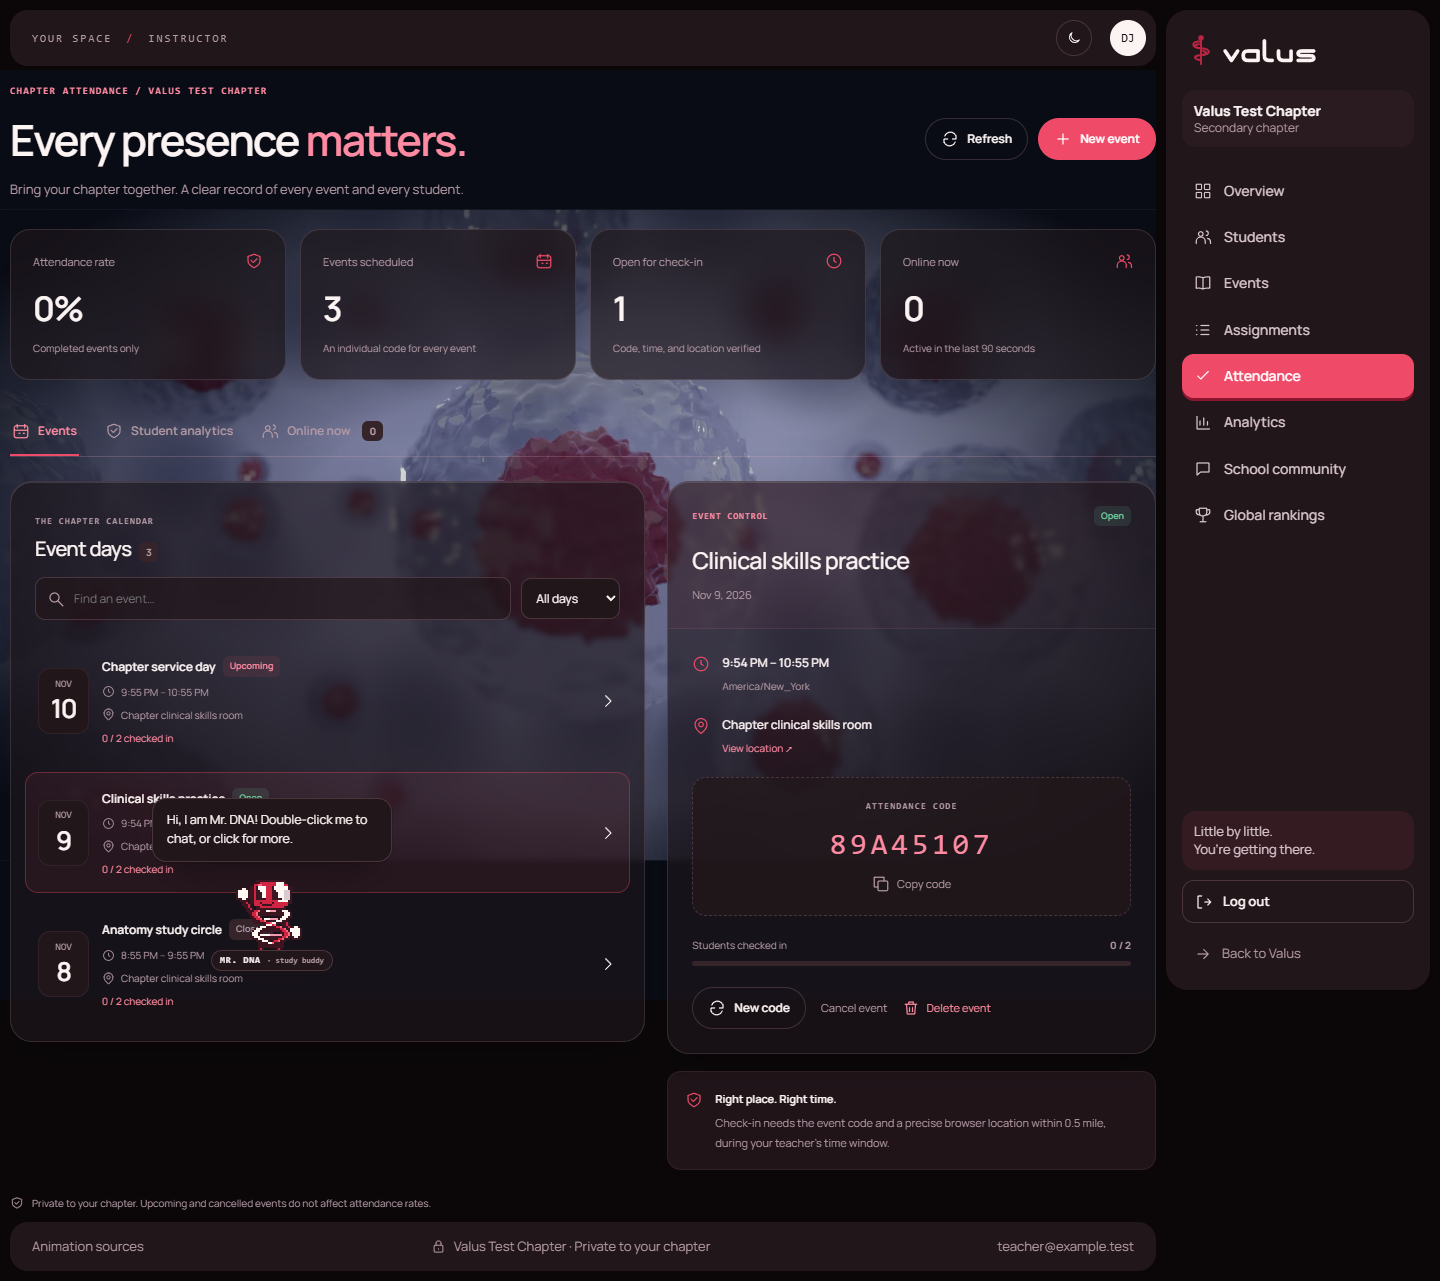
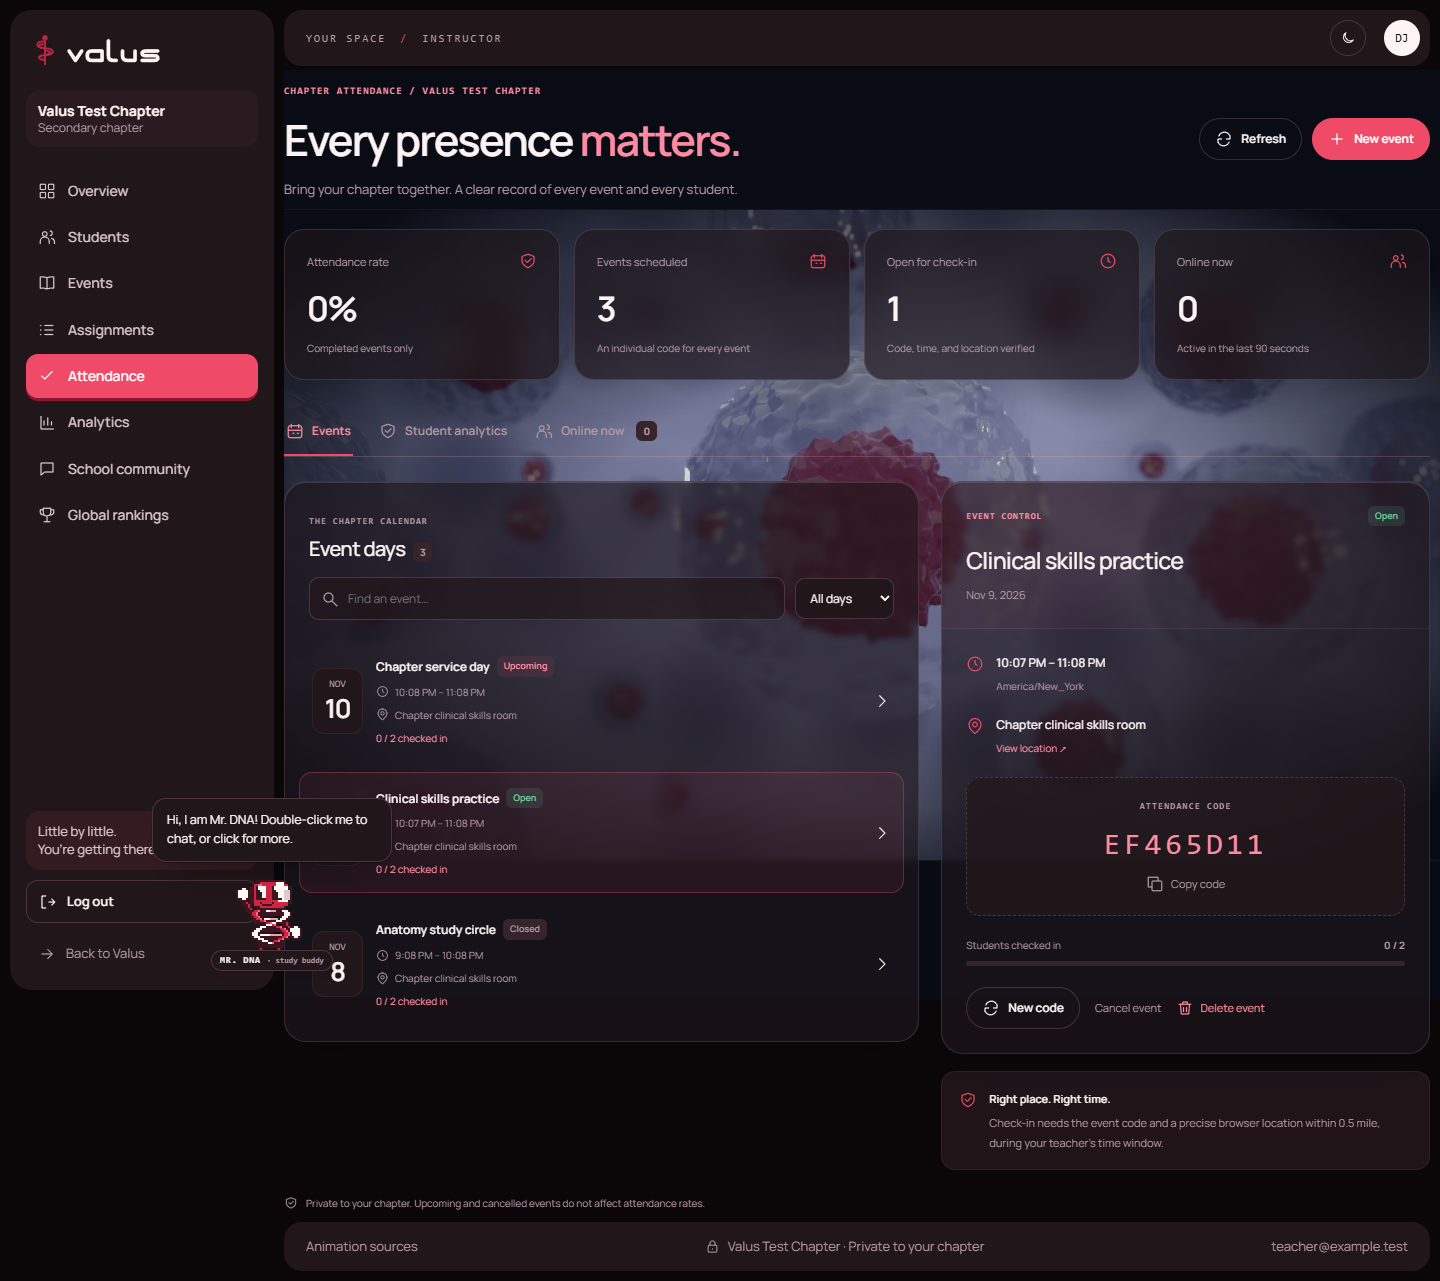
Fixed valus formatting

diff --git a/dist/attendance.css b/dist/attendance.css
@@ -902,24 +902,6 @@
   outline: 2px solid var(--red);
   outline-offset: 3px;
 }
-/* Dashboard navigation stays with all workspace tabs on the requested right side. */
-@media (min-width: 861px) {
-  .workspace {
-    grid-template-columns: minmax(0, 1fr) 264px;
-  }
-  .workspace > .sidebar {
-    grid-column: 2;
-    grid-row: 1;
-  }
-  .workspace > .workspace-body {
-    grid-column: 1;
-    grid-row: 1;
-  }
-  .workspace .medical-backdrop {
-    left: 0;
-    right: 284px;
-  }
-}
 @media (max-width: 1150px) {
   .va-heading {
     align-items: flex-start;
@@ -936,15 +918,6 @@
   }
 }
 @media (max-width: 860px) {
-  .workspace > .sidebar {
-    left: auto;
-    right: 10px;
-    transform: translateX(calc(100% + 20px));
-    z-index: 45;
-  }
-  .workspace > .sidebar.open {
-    transform: none;
-  }
   .va-layout {
     grid-template-columns: minmax(0, 1.2fr) minmax(0, 1fr);
   }

diff --git a/README.md b/README.md
@@ -268,7 +268,7 @@ The app's `#/` routes are invisible to Google, so `npm run seo` (`scripts/build-
 
 ## Chapter attendance
 
-Attendance is available to students and teachers at `#/attendance` through the dashboard navigation on the right. It is not added to the public top navigation. The feature uses Valus's existing colors, typography, frosted panels, and medical backgrounds. Mobile users open the dashboard menu to find Attendance.
+Attendance is available to students and teachers at `#/attendance` through the original dashboard navigation on the left. It is not added to the public top navigation. The feature uses Valus's existing colors, typography, frosted panels, and medical backgrounds. Mobile users open the dashboard menu to find Attendance.
 
 Teachers create dated events with a name, location, and opening/closing time (up to 24 hours, displayed in the teacher's browser time zone). Each event gets an independent eight-character attendance code and a snapshot of the current chapter student roster. Teachers can copy/rotate codes, cancel an event, permanently delete an event with confirmation, view chapter members online, review per-student and per-event attendance, and export roster attendance as CSV. Deleted events and their records disappear from schedules and analytics. Cancelled and upcoming events do not affect attendance rates.
 

diff --git a/BACKEND.md b/BACKEND.md
@@ -153,7 +153,7 @@ together using the existing Vercel workflow. Schema creation is automatic.
 
 ## Chapter attendance
 
-Attendance is available to students and teachers at `#/attendance` through the dashboard navigation on the right. It is not added to the public top navigation. The feature uses Valus's existing colors, typography, frosted panels, and medical backgrounds. Mobile users open the dashboard menu to find Attendance.
+Attendance is available to students and teachers at `#/attendance` through the original dashboard navigation on the left. It is not added to the public top navigation. The feature uses Valus's existing colors, typography, frosted panels, and medical backgrounds. Mobile users open the dashboard menu to find Attendance.
 
 Teachers create dated events with a name, location, and opening/closing time (up to 24 hours, displayed in the teacher's browser time zone). Each event gets an independent eight-character attendance code and a snapshot of the current chapter student roster. Teachers can copy/rotate codes, cancel an event, permanently delete an event with confirmation, view chapter members online, review per-student and per-event attendance, and export roster attendance as CSV. Deleted events and their records disappear from schedules and analytics. Cancelled and upcoming events do not affect attendance rates.
 
